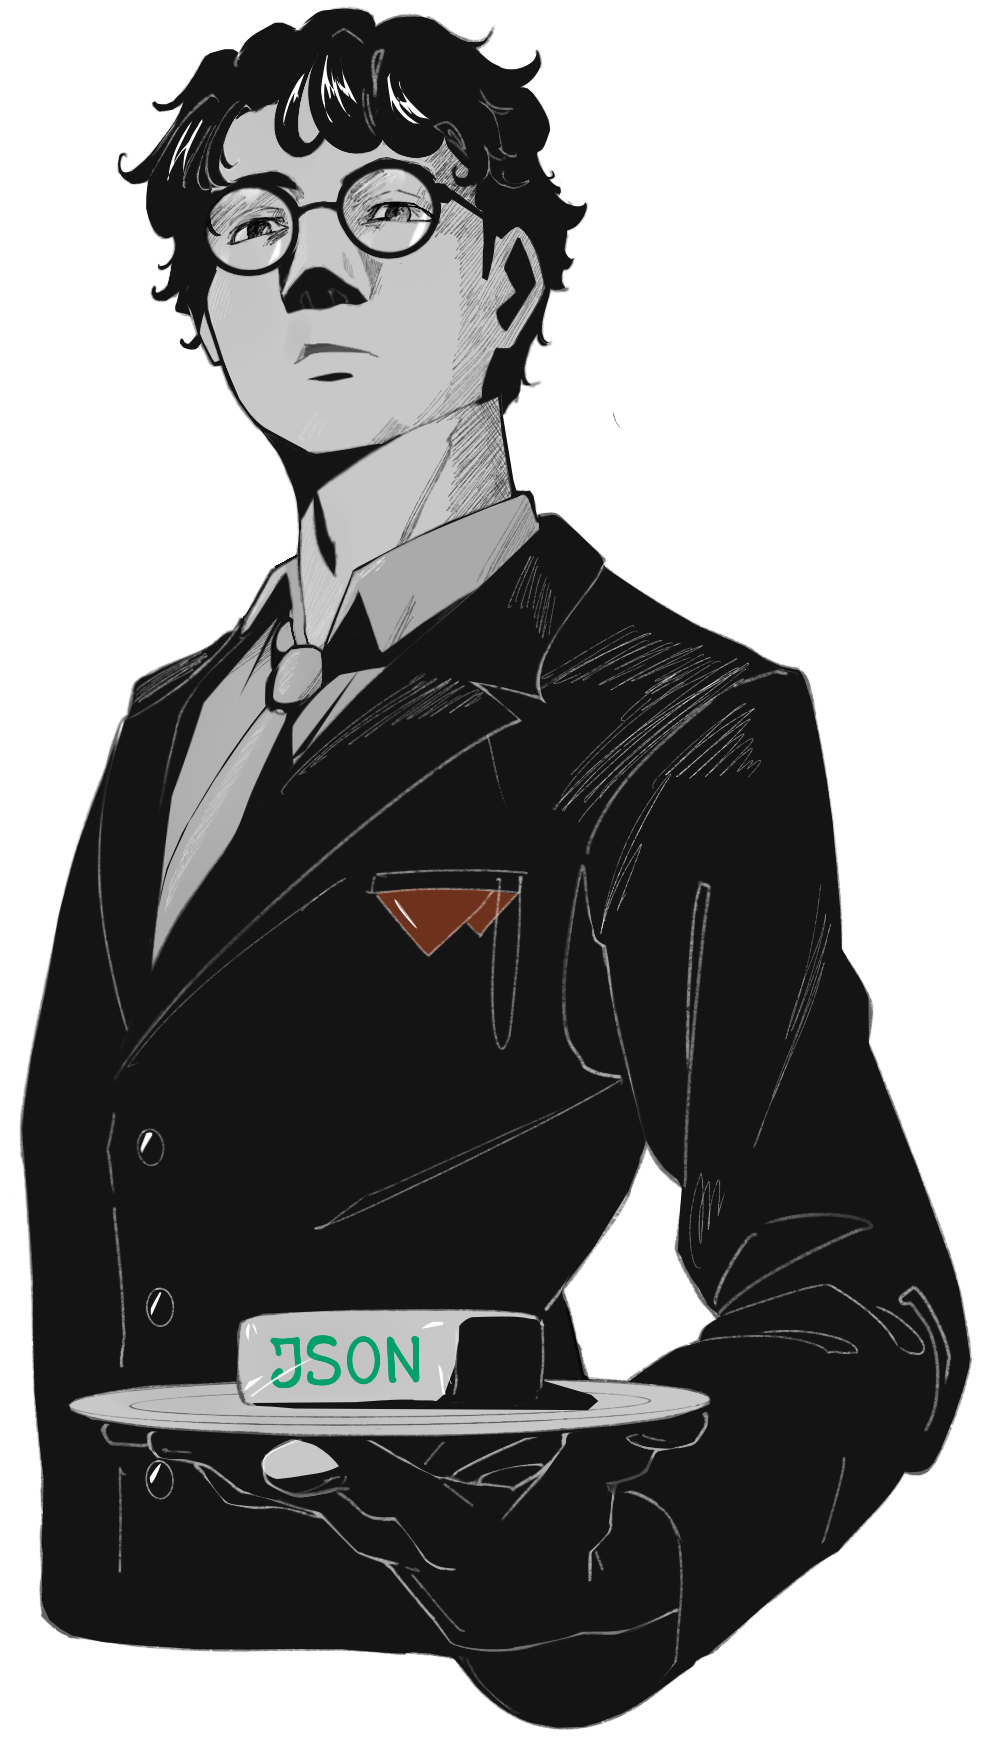
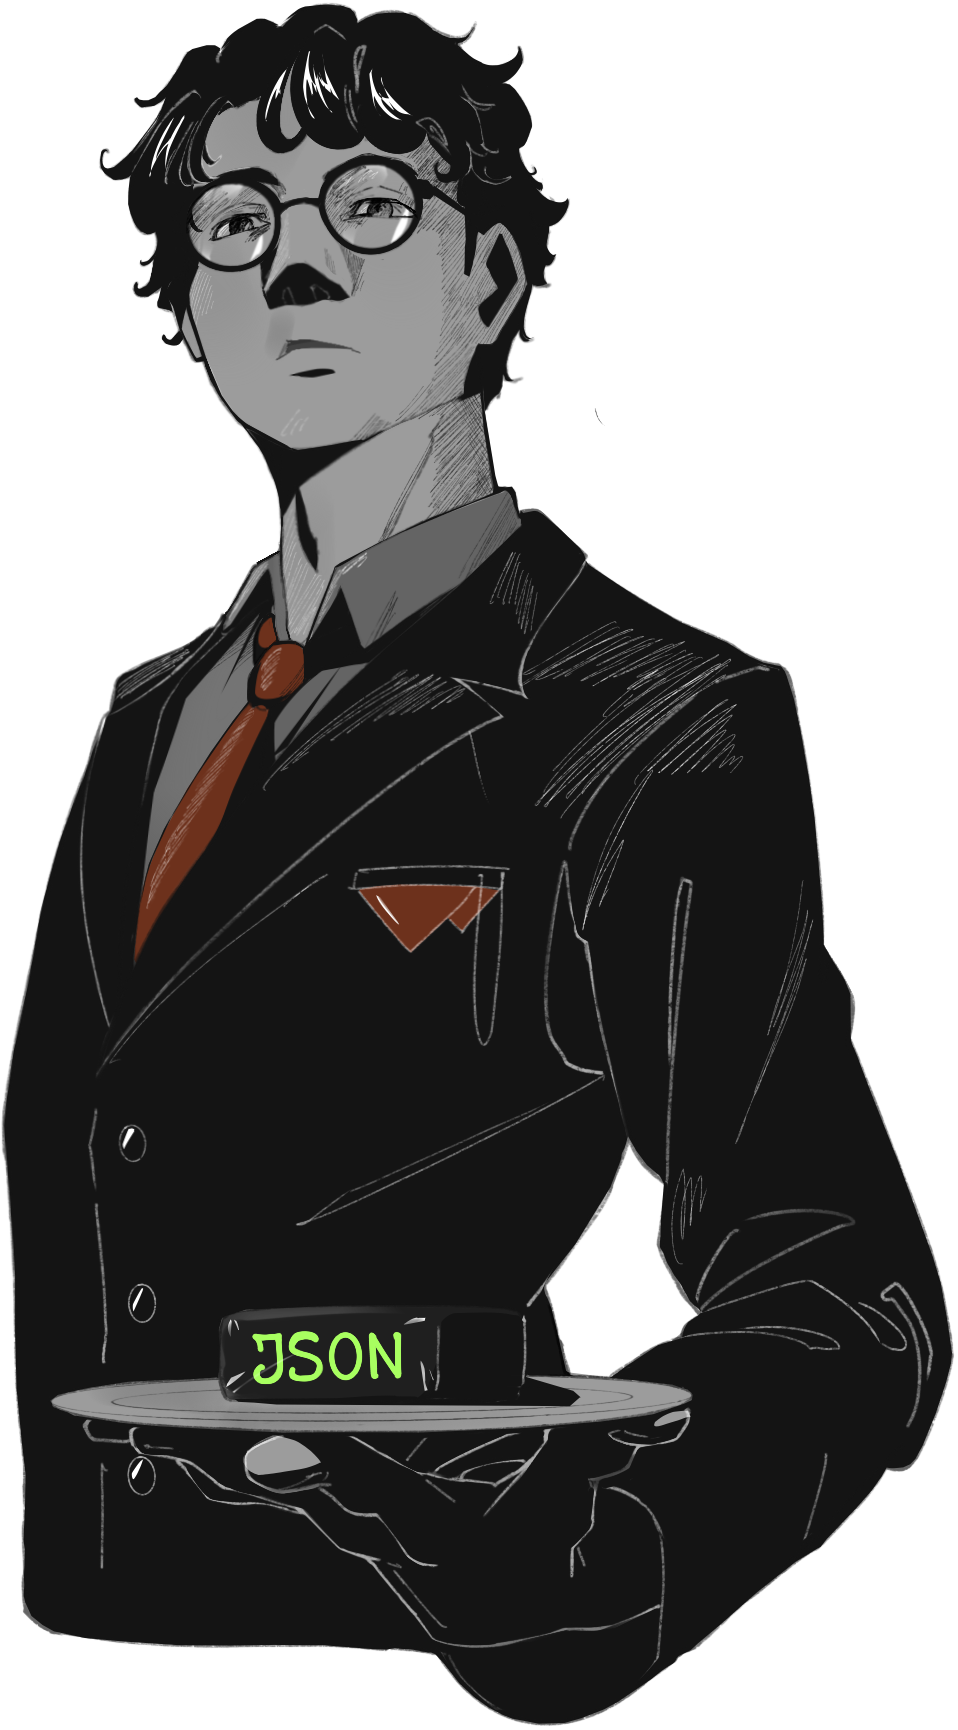
Added hero artwork

diff --git a/src/components/Cards.jsx b/src/components/Cards.jsx
@@ -1,20 +1,32 @@
+import { CaptionedImage } from "./ProjectPageComponents";
 import { useState, useEffect } from "react";
 import { Link } from 'react-router-dom'
 import { FaDiscord } from "react-icons/fa";
 import { SiGmail } from "react-icons/si";
 
-import { FaLinkedin as Linkedin } from "react-icons/fa"; //<Linkedin />
-import { FaGithub as Github } from "react-icons/fa"; // <Github />
-import { TbCircleLetterCFilled as Cara } from "react-icons/tb"; // <Cara />
-import CaraPNG from "../assets/cara-logo-1.png"
+import Hero from "../assets/hero.png";
+
+import { FaLinkedin as Linkedin } from "react-icons/fa";
+import { FaGithub as Github } from "react-icons/fa";
+import CaraPNG from "../assets/cara-logo.png"
 
 function BioCard() {
-  return <div className='flex flex-5 width-100 height-100 card'>
+  return <div className='flex flex-5 width-100 height-100 card position-relative'>
     <div className="bio-text width-65 height-50">
       <p>Welcome</p>
-      <p>I'm <b>Hedi</b>, software developer who builds full-stack applications, from clean & interactive frontends to well-structured backends.</p>
-      <p>I enjoy turning ideas into working products, whether that means designing intuitive user interfaces or building APIs and databases behind the scenes.</p>
+      <p>I'm <b>Hedi Belhassine</b>, software developer who builds full-stack applications, from clean & interactive frontends to well-structured backends.</p>
+      <p>Feel free to reach out to me if you have any project in mind, want to collaborate, or just want to say hello. </p>
     </div>
+    <img
+      src={Hero}
+      style={{
+        position: "absolute",
+        bottom: "0",
+        right: "2em",
+        maxWidth: "60%",
+        maxHeight: "100%",
+        width: "auto"
+      }} />
   </div>
 }
 
@@ -35,7 +47,7 @@ function ContactCard() {
         <div className="width-100 flex justify-content-space-evenly">
           <a href="https://www.linkedin.com/in/hedi-belhassine-8399ab266/" target="_blank" className="socials-icon"><Linkedin /></a>
           <a href="https://github.com/hedi3489" target="_blank" className="socials-icon"><Github /></a>
-          <a href="https://cara.app/hedibelhassine" target="_blank" className="socials-icon"><img src={CaraPNG}/></a>
+          <a href="https://cara.app/hedibelhassine" target="_blank" className="socials-icon"><img src={CaraPNG} /></a>
         </div>
 
       </div>
@@ -79,7 +91,6 @@ function AvailabilityCard() {
   const available = true;
   var availabilityText = "";
   const textStyle = (fontSize, color = 'white') => ({
-    // margin : "1px 0px",
     fontSize,
     color
   });

diff --git a/src/pages/APIProject.jsx b/src/pages/APIProject.jsx
@@ -1,7 +1,6 @@
 import { TechStackInline, TextSection, SoftList, CaptionedImage, BulletList, CodeSnippet } from '../components/ProjectPageComponents.jsx'
 import olympicsDBDiagram from '../assets/olympicsDBDiagram.png'
 import waiterJson from "../assets/waiter-json.png"
-import waiterJson2 from "../assets/waiter-json-2.png"
 
 function APIProjectPage() {
     return (
@@ -109,7 +108,7 @@ if (in_array($sort_by, $valid_sort_fields) && in_array($order_by, $valid_orders)
                             </div>
                         </div>
                         <div className=''>
-                            <CaptionedImage image={waiterJson2} imageSizeClass='waiter-image '
+                            <CaptionedImage image={waiterJson} imageSizeClass='waiter-image '
                             alt='Artwork of waiter serving a JSON package' />
                         </div>
                     </div>
@@ -122,7 +121,7 @@ if (in_array($sort_by, $valid_sort_fields) && in_array($order_by, $valid_orders)
     protected $message = "Invalid filter provided.";
     protected string $title = "400 Bad Request";
     protected string $description = "Please make sure you provide a valid filter. 
-    Only alphanumeric characters and spaces are allowed.";
+                Only alphanumeric characters and spaces are allowed.";
 }'
                     />
 
@@ -132,7 +131,7 @@ if (in_array($sort_by, $valid_sort_fields) && in_array($order_by, $valid_orders)
     protected $message = "Internal server error.";
     protected $title = "500 Internal Server Error.";
     protected string $description = "The server has encountered an unexpected 
-    situation preventing it from fulfilling its request.";
+                situation preventing it from fulfilling its request.";
 }'
                     />
                 </div>

diff --git a/src/styles/Typography.css b/src/styles/Typography.css
@@ -52,6 +52,7 @@ ul {
 .bio-text p {
   margin: 0.3em 0;
   padding: 0.2em 0;
+  font-size: clamp(0.8rem, 1.06rem, 1.1rem);
 }
 
 .bio-text p b,

diff --git a/src/styles/Cards.css b/src/styles/Cards.css
@@ -104,5 +104,5 @@
 }
 
 .little-footer {
-  flex: 2;
+  flex: 1.8;
 }
